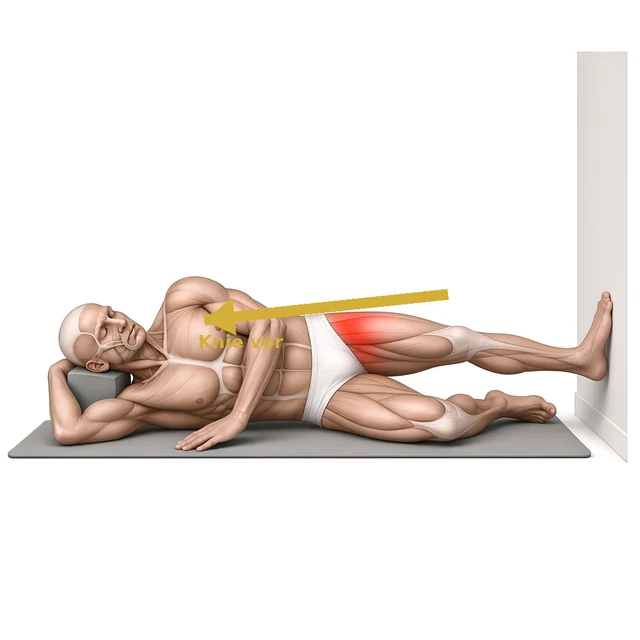
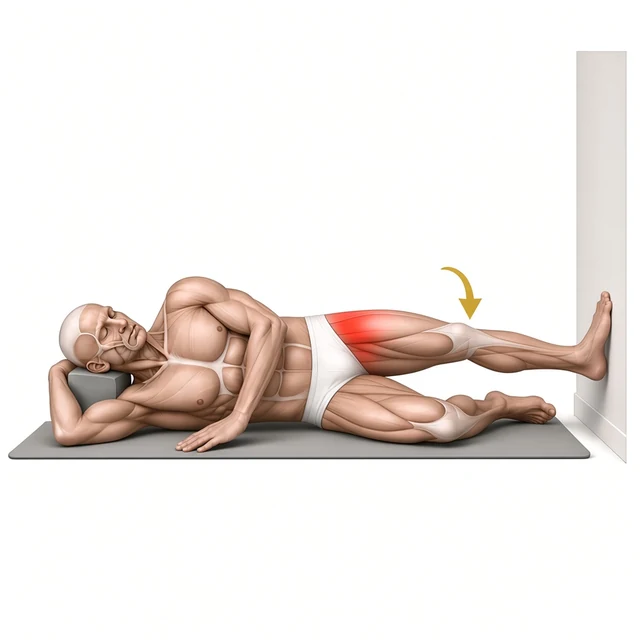
Update 2026-11-09

diff --git a/sw.js b/sw.js
@@ -1,5 +1,5 @@
-/* Voccola Gym Log – Service Worker (v1.7.26: image fixes + Abend k=3 + Zusatz) */
-const CACHE = 'vgl-v1.7.26';
+/* Voccola Gym Log – Service Worker (v1.7.27: hipwallrot/step image fix) */
+const CACHE = 'vgl-v1.7.27';
 const ASSETS = ['./', './index.html', './styles.css', './app.js', './mobility.js', './manifest.webmanifest',
   './icons/icon-192.png', './icons/icon-512.png', './icons/apple-touch-icon.png', './icons/icon-maskable-512.png', './assets/dumbbell.webp', './assets/keepawake.mp4',
   './assets/ex/b-fly-schraeg-kabel.webp', './assets/ex/bauch-crunch-maschine.webp', './assets/ex/r-facepull.webp', './assets/ex/r-revfly.webp', './assets/ex/r-row-incline-kabel.webp', './assets/ex/r-row-trapez-schraeg-breit.webp', './assets/ex/s-presse-kabel-liegend.webp', './assets/ex/s-seitheben-kabel-einarm.webp', './assets/ex/s-seitheben-vorgebeugt.webp', './assets/ex/x1.webp', './assets/ex/x10.webp', './assets/ex/x11.webp', './assets/ex/x12.webp', './assets/ex/x13.webp', './assets/ex/x14.webp', './assets/ex/x15.webp', './assets/ex/x16.webp', './assets/ex/x17.webp', './assets/ex/x18.webp', './assets/ex/x19.webp', './assets/ex/x2.webp', './assets/ex/x20.webp', './assets/ex/x21.webp', './assets/ex/x22.webp', './assets/ex/x23.webp', './assets/ex/x24.webp', './assets/ex/x25.webp', './assets/ex/x26.webp', './assets/ex/x27.webp', './assets/ex/x28.webp', './assets/ex/x3.webp', './assets/ex/x4.webp', './assets/ex/x5.webp', './assets/ex/x6.webp', './assets/ex/x7.webp', './assets/ex/x8.webp', './assets/ex/x9.webp', 

diff --git a/app.js b/app.js
@@ -1,6 +1,6 @@
 /* Voccola Gym Log – Vanilla JS, offline, keine Tracker. Daten bleiben im Browser (IndexedDB). */
 'use strict';
-const APP_VERSION = '1.7.26';
+const APP_VERSION = '1.7.27';
 
 /* ---------- Helpers ---------- */
 const $ = (s, r = document) => r.querySelector(s);
@@ -118,6 +118,7 @@ const FREE_EX = [
 const FREE_PRESET = [['r-revfly', 'Reverse Butterfly (hintere Schulter)'], ['r-facepull', 'Face Pulls (Seil)'], ['s-seitheben-vorgebeugt', 'Vorgebeugtes Seitheben (hintere Schulter)'],
   ['s-seitheben-kabel-einarm', 'Seitheben Kabel einarmig'], ['x11', 'Schulterpresse Maschine'], ['bauch-crunch-maschine', 'Crunchmaschine'],
   ['x19', 'Knieheben am Beinstrecker'], ['x21', 'Seitbeugen'], ['x20', 'Crunch am Seilzug']];
+/* v1.7.27: hipwallrot/hipwallstep images fixed (small knee arrow; wall+flat heel+reach). */
 /* v1.7.26: Bilder hipwallrot/step/psoasreset/rollschien/rolle/couch; Abend-Wechsel 3; Zusatzübung-Picker Morgen/Abend → 9/9 */
 /* v1.7.25: hipwallrot korrigiert (Zac Cupples, 3×60 s) + hipwallstep Diagonalschritt Abend-Kern → 11/11; Bilder neu; Safety-Cues Folgetag */
 /* v1.7.24: Abend: Hüft-Rotation an der Wand (Seitlage) core in EVE → 10/10 (nach hipflexstand); Bilder hipwallrot.webp + seq_hipwallrot.webp */

diff --git a/mobility.js b/mobility.js
@@ -1,4 +1,4 @@
-/* Voccola Gym Log – Hüft-Beweglichkeit (v1.7.26). Eigene Daten in localStorage 'vgl-mob', berührt Trainingsdaten nicht. */
+/* Voccola Gym Log – Hüft-Beweglichkeit (v1.7.27). Eigene Daten in localStorage 'vgl-mob', berührt Trainingsdaten nicht. */
 'use strict';
 (function () {
 const KEY = 'vgl-mob';
